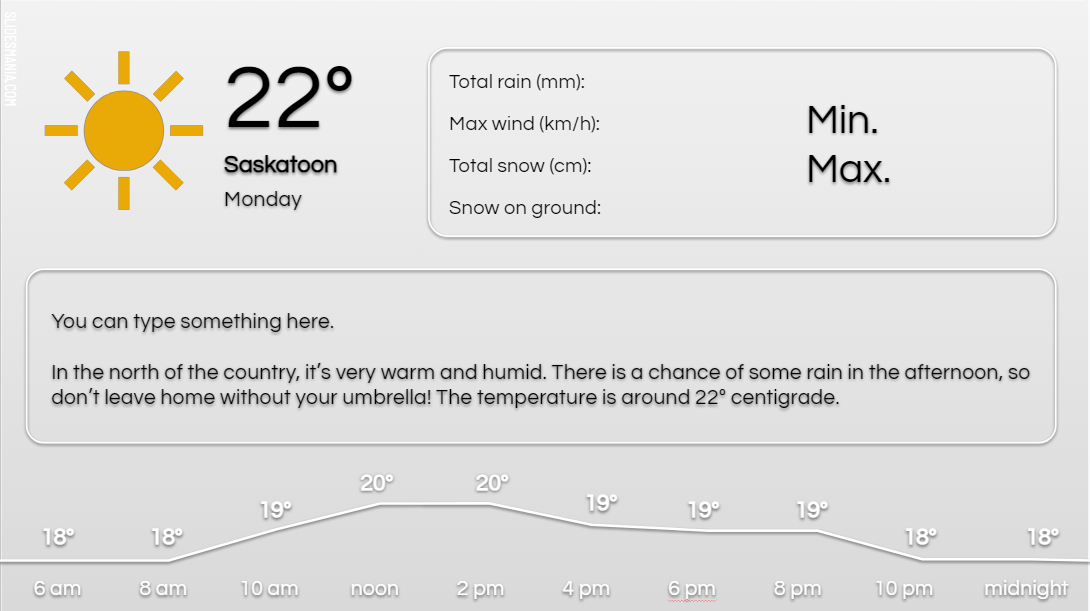
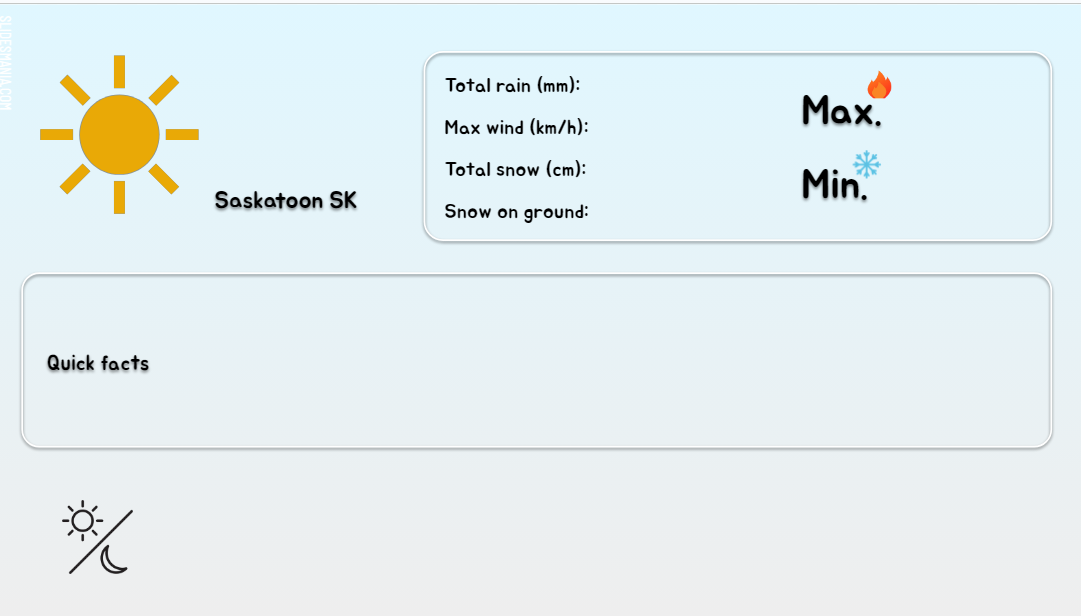
Still working on the little details

diff --git a/sketch.js b/sketch.js
@@ -11,13 +11,13 @@
 let table,table1, dayweather, data = [];
 let yeartable, row, cellSize = 50, ROWS = 8, COLS = 2;
 let backgroundImage;
-let maxTemp = [[]];
-let minTemp=[[]];
+let maxTemp = [[]], minTemp=[[]], rainfall = [[]], windspeed = [[]], snowfall = [[]], groundsnow = [[]];
 let filesList = [];
 let list;
 let multiplyer;
 let button,r;
 let dateInput = [];
+let onoff = 0;
 const dayOfYear = date => Math.floor((date - new Date(date.getFullYear(), 0, 0)) / (1000 * 60 * 60 * 24));
 let field = document.querySelector("#date");
 let monthList = ["January", "February", "March", "April", "May", "June", "July", "August", "September", "October", "November", "December"];
@@ -48,9 +48,8 @@ function draw(){
   image(backgroundImage, 225,88,backgroundImage.width,backgroundImage.height);
   circle(width/2,height/2,4);
   circle(backgroundImage.width/1.22 + 225,backgroundImage.height/5+88,4);
-  goButton();
+  //goButton();
   displayWeatherdata();
-
 
 }
 
@@ -64,20 +63,6 @@ function getFileDate(year,day){
   return temporaryList;
 }
 
-function visualizeData() {
-  let list = getListofMax();
-  let x = 10;
-  let y = 1;
-  fill("black");
-  textSize(50);
-  text(1980,width/2,100);
-  fill("red");
-  for (let i = 0; i < 367; i++){
-    circle(x,Number(list[i][y])*4+300,5);
-    x+=4;
-  }
-  return list;
-}
 function getHighest(){
   let highest = -9999999;
   let lowest = 999999;
@@ -109,26 +94,6 @@ function getAverage(day, maxOrmin){
 
   return average;
 }
-function getPartialAverage(day){
-  let tempList = [];
-  let maxaverage = 0;
-  let maxlist = getListofMax();
-  for (let i = 0; i < 10; i ++){
-    let rando = Math.floor(random(1,filesList.length/2));
-    maxaverage += Number(maxlist[day][rando]);
-  }
-  let minaverage = 0;
-  let minlist = getListofMin();
-  for (let i = 0; i < 10; i ++){
-    let rando = Math.floor(random(1,filesList.length/2));
-    minaverage += Number(minlist[day][rando]);
-  }
-  maxaverage = maxaverage/10;
-  minaverage = minaverage/10;
-  tempList.push(maxaverage);
-  tempList.push(minaverage);
-  return tempList;
-}
 
 function getListofMax(){
   maxTemp = [];
@@ -154,6 +119,108 @@ function getListofMin(){
   }
   return minTemp;
 }
+function getListofRain(){
+  rainfall = [];
+  for (let i = 0; i < 366; i++){
+    let temporaryList = [];
+    for (let j = 0; j < filesList.length; j++) {
+      let aTemp = filesList[j][1].getColumn("Total Rain (mm)");
+      temporaryList.push(aTemp[i]);
+    }
+    rainfall.push(temporaryList);
+  }
+  return rainfall;
+}
+function getListofWind(){
+  windspeed = [];
+  for (let i = 0; i < 366; i++){
+    let temporaryList = [];
+    for (let j = 0; j < filesList.length; j++) {
+      let aTemp = filesList[j][1].getColumn("Spd of Max Gust (km/h)");
+      temporaryList.push(aTemp[i]);
+    }
+    windspeed.push(temporaryList);
+  }
+  return windspeed;
+}
+function getListofSnow(){
+  rainfall = [];
+  for (let i = 0; i < 366; i++){
+    let temporaryList = [];
+    for (let j = 0; j < filesList.length; j++) {
+      let aTemp = filesList[j][1].getColumn("Total Snow (cm)");
+      temporaryList.push(aTemp[i]);
+    }
+    snowfall.push(temporaryList);
+  }
+  return snowfall;
+}
+function getGroundSnow(){
+  groundsnow = [];
+  for (let i = 0; i < 366; i++){
+    let temporaryList = [];
+    for (let j = 0; j < filesList.length; j++) {
+      let aTemp = filesList[j][1].getColumn("Snow on Grnd (cm)");
+      temporaryList.push(aTemp[i]);
+    }
+    windspeed.push(temporaryList);
+  }
+  return groundsnow;
+}
+
+function getPartialAverage(day){
+  let tempList = [];
+  let maxaverage = 0;
+  let maxlist = getListofMax();
+  for (let i = 0; i < 12; i ++){
+    let rando = Math.floor(random(1,filesList.length/2));
+    maxaverage += Number(maxlist[day][rando]);
+  }
+  let minaverage = 0;
+  let minlist = getListofMin();
+  for (let i = 0; i < 12; i ++){
+    let rando = Math.floor(random(1,filesList.length/2));
+    minaverage += Number(minlist[day][rando]);
+  }
+  let rainchance = 0;
+  let rainlist = getListofRain();
+  for (let i = 0; i < 11; i ++){
+    let rando = Math.floor(random(1,filesList.length/2));
+    if (Number(rainlist[day][rando]) !== 0){
+      rainchance+= 10;
+    }
+  }
+  let windgust = 0;
+  let windspeed = getListofRain();
+  for (let i = 0; i < 11; i ++){
+    let rando = Math.floor(random(1,filesList.length/2));
+    windgust += Number(windspeed[day][rando]);
+  }
+  let snowchance = 0;
+  let snowlist = getListofSnow();
+  for (let i = 0; i < 11; i ++){
+    let rando = Math.floor(random(1,filesList.length/2));
+    if (Number(snowlist[day][rando]) !== 0){
+      snowchance+= 10;
+    }
+  }
+  let snowdepth = 0;
+  let snowdata = getListofSnow();
+  for (let i = 0; i < 11; i ++){
+    let rando = Math.floor(random(1,filesList.length/2));
+    snowdepth += Number(snowdata[day][rando]);
+  }
+  maxaverage = maxaverage/10;
+  minaverage = minaverage/10;
+  tempList.push(maxaverage);
+  tempList.push(minaverage);
+  tempList.push(rainchance);
+  tempList.push(windgust);
+  tempList.push(snowchance);
+  tempList.push(snowdepth);
+  return tempList;
+}
+
 
 function getMin(){
   for (let i = 0; i < 366; i++){
@@ -182,7 +249,7 @@ function getDayInput(){
     dateInput.push(theDate.getFullYear());
     dateInput.push(dayOfYear(theDate));
     dateInput.push(monthList[month(theDate)]);
-    //table1 = loadTable(`./saskatoon${2006}.csv`, "csv", "header");
+    onoff = 0;
     return dateInput;
   });
 }
@@ -202,18 +269,23 @@ function predictFutureWeatherData(day){
   let currentdate = 2023;
   let diff = dateInput[0] - currentdate;
   if (diff.length > 1){
-    temp[0] += 0.08*diff[0];
-    temp[1] += 0.08*diff[0];
+    temp[0] += 0.1*diff[0];
+    temp[1] += 0.1*diff[0];
   }
-  data.push(temp);
-  console.log(temp);
-  return temp;
+  data.push(temp[0]);
+  data.push(temp[1]);
+  data.push(temp[2]);
+  data.push(temp[3]);
+  data.push(temp[4]);
+  data.push(temp[5]);
+  return data;
 }
 
 function goButton(){
   button = createButton("Go!");
   button.position(100, 100);
   button.mousePressed(displayWeatherdata);
+  button.mousePressed(onoff = 0);
 }
 
 function checkempty(value){
@@ -230,11 +302,30 @@ function displayWeatherdata(){
   background(237,239,239,255);
   image(backgroundImage, 225,88,backgroundImage.width,backgroundImage.height);
   if (dateInput[0] > 2022){
-    data = predictFutureWeatherData(dateInput[1]);
+    console.log(onoff);
+    if (onoff === 0){
+      data = [];
+      data = predictFutureWeatherData(dateInput[1]);
+      onoff = 1;
+    }
     textSize(42);
     textFont("Cursive");
     //max temp
-    text(data[1] + "°C",backgroundImage.width/1.2 + 225,backgroundImage.height/4.7+88);
+    text(data[0] + "°C",backgroundImage.width/1.2 + 225,backgroundImage.height/4.7+88);
+    //min temp
+    text(data[1] + "°C",backgroundImage.width/1.2 + 225,backgroundImage.height/3.3+88);
+    //chance of rain
+    textSize(22);
+    text(data[2] + " %",backgroundImage.width/1.7 + 225,backgroundImage.height/6.8 + 88);
+    //potential wind gust
+    text(data[3]+" km/h",backgroundImage.width/1.7 + 225,backgroundImage.height/4.7 + 88);
+    //chance of snow
+    text(data[4]+" %",backgroundImage.width/1.7 + 225,backgroundImage.height/3.5 + 88);
+    //snow on ground
+    text(data[5]+" cm",backgroundImage.width/1.7 + 225,backgroundImage.height/2.8 + 88);
+    //year
+    textSize(70);
+    text(dateInput[0], backgroundImage.width/5 + 225,backgroundImage.height/5.2 + 88);
   }
   else if (dateInput[0] <= 2022 && dateInput[1] < 159){
     dayweather = loadWeatherInputs();
